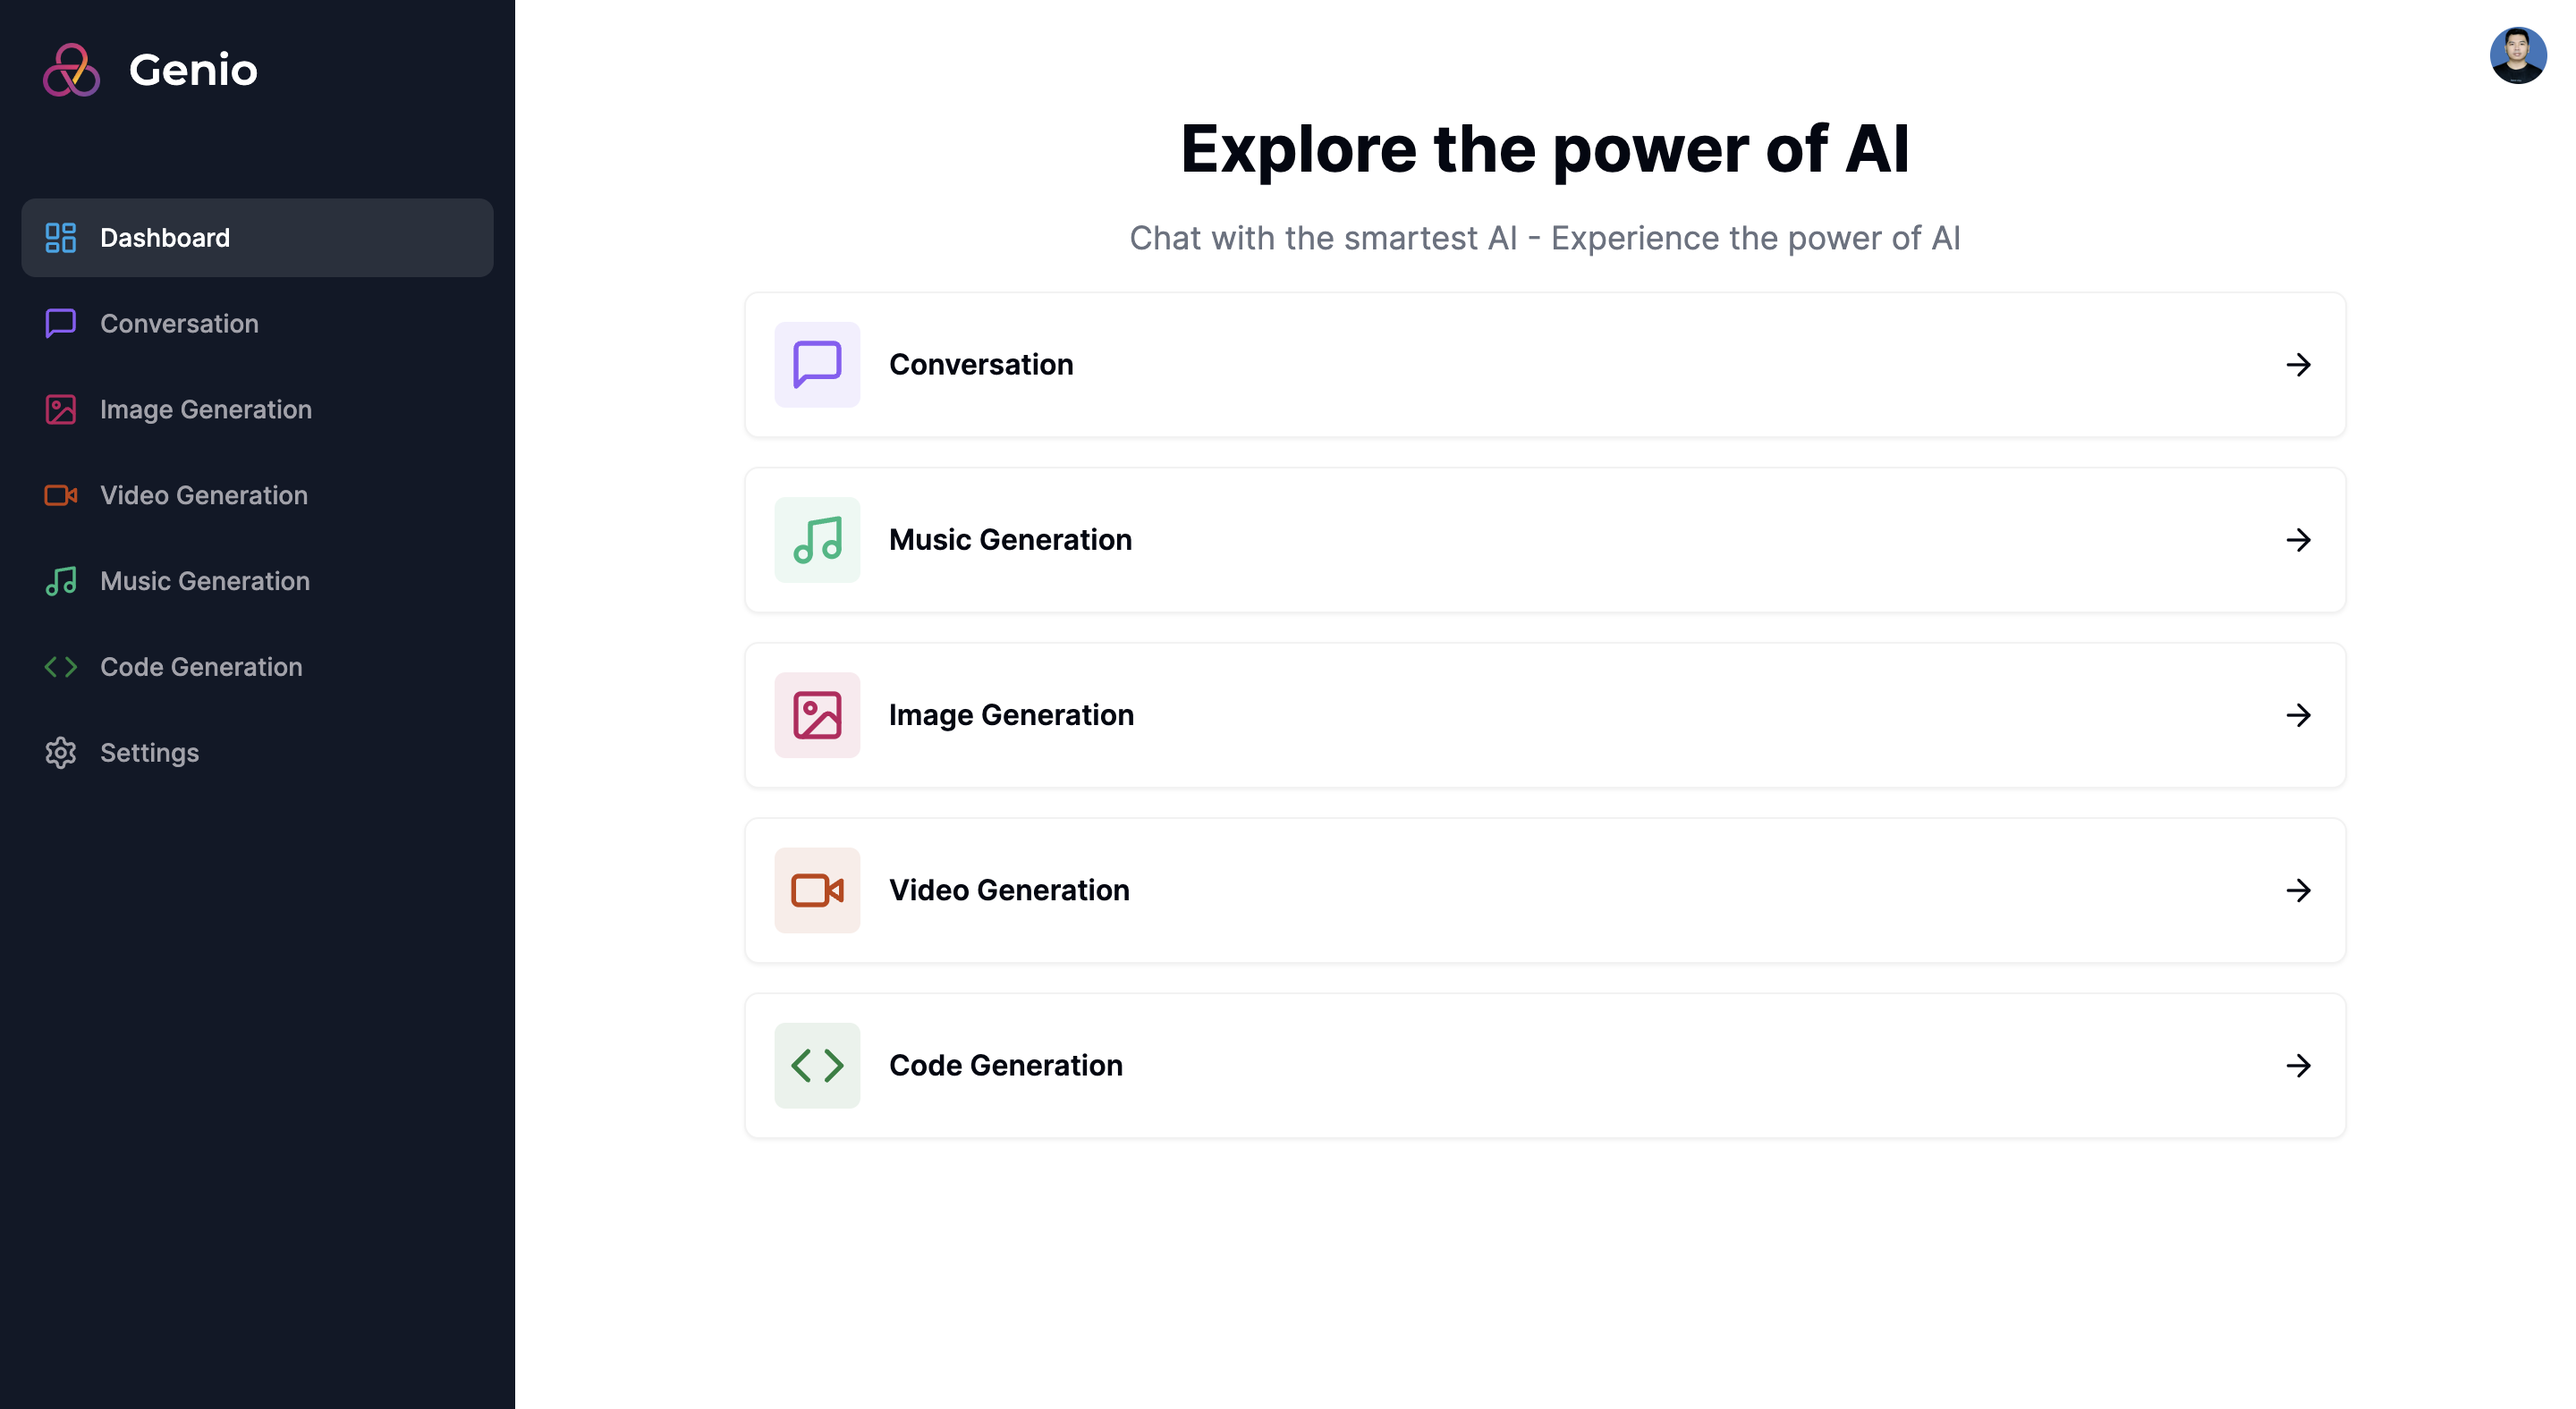
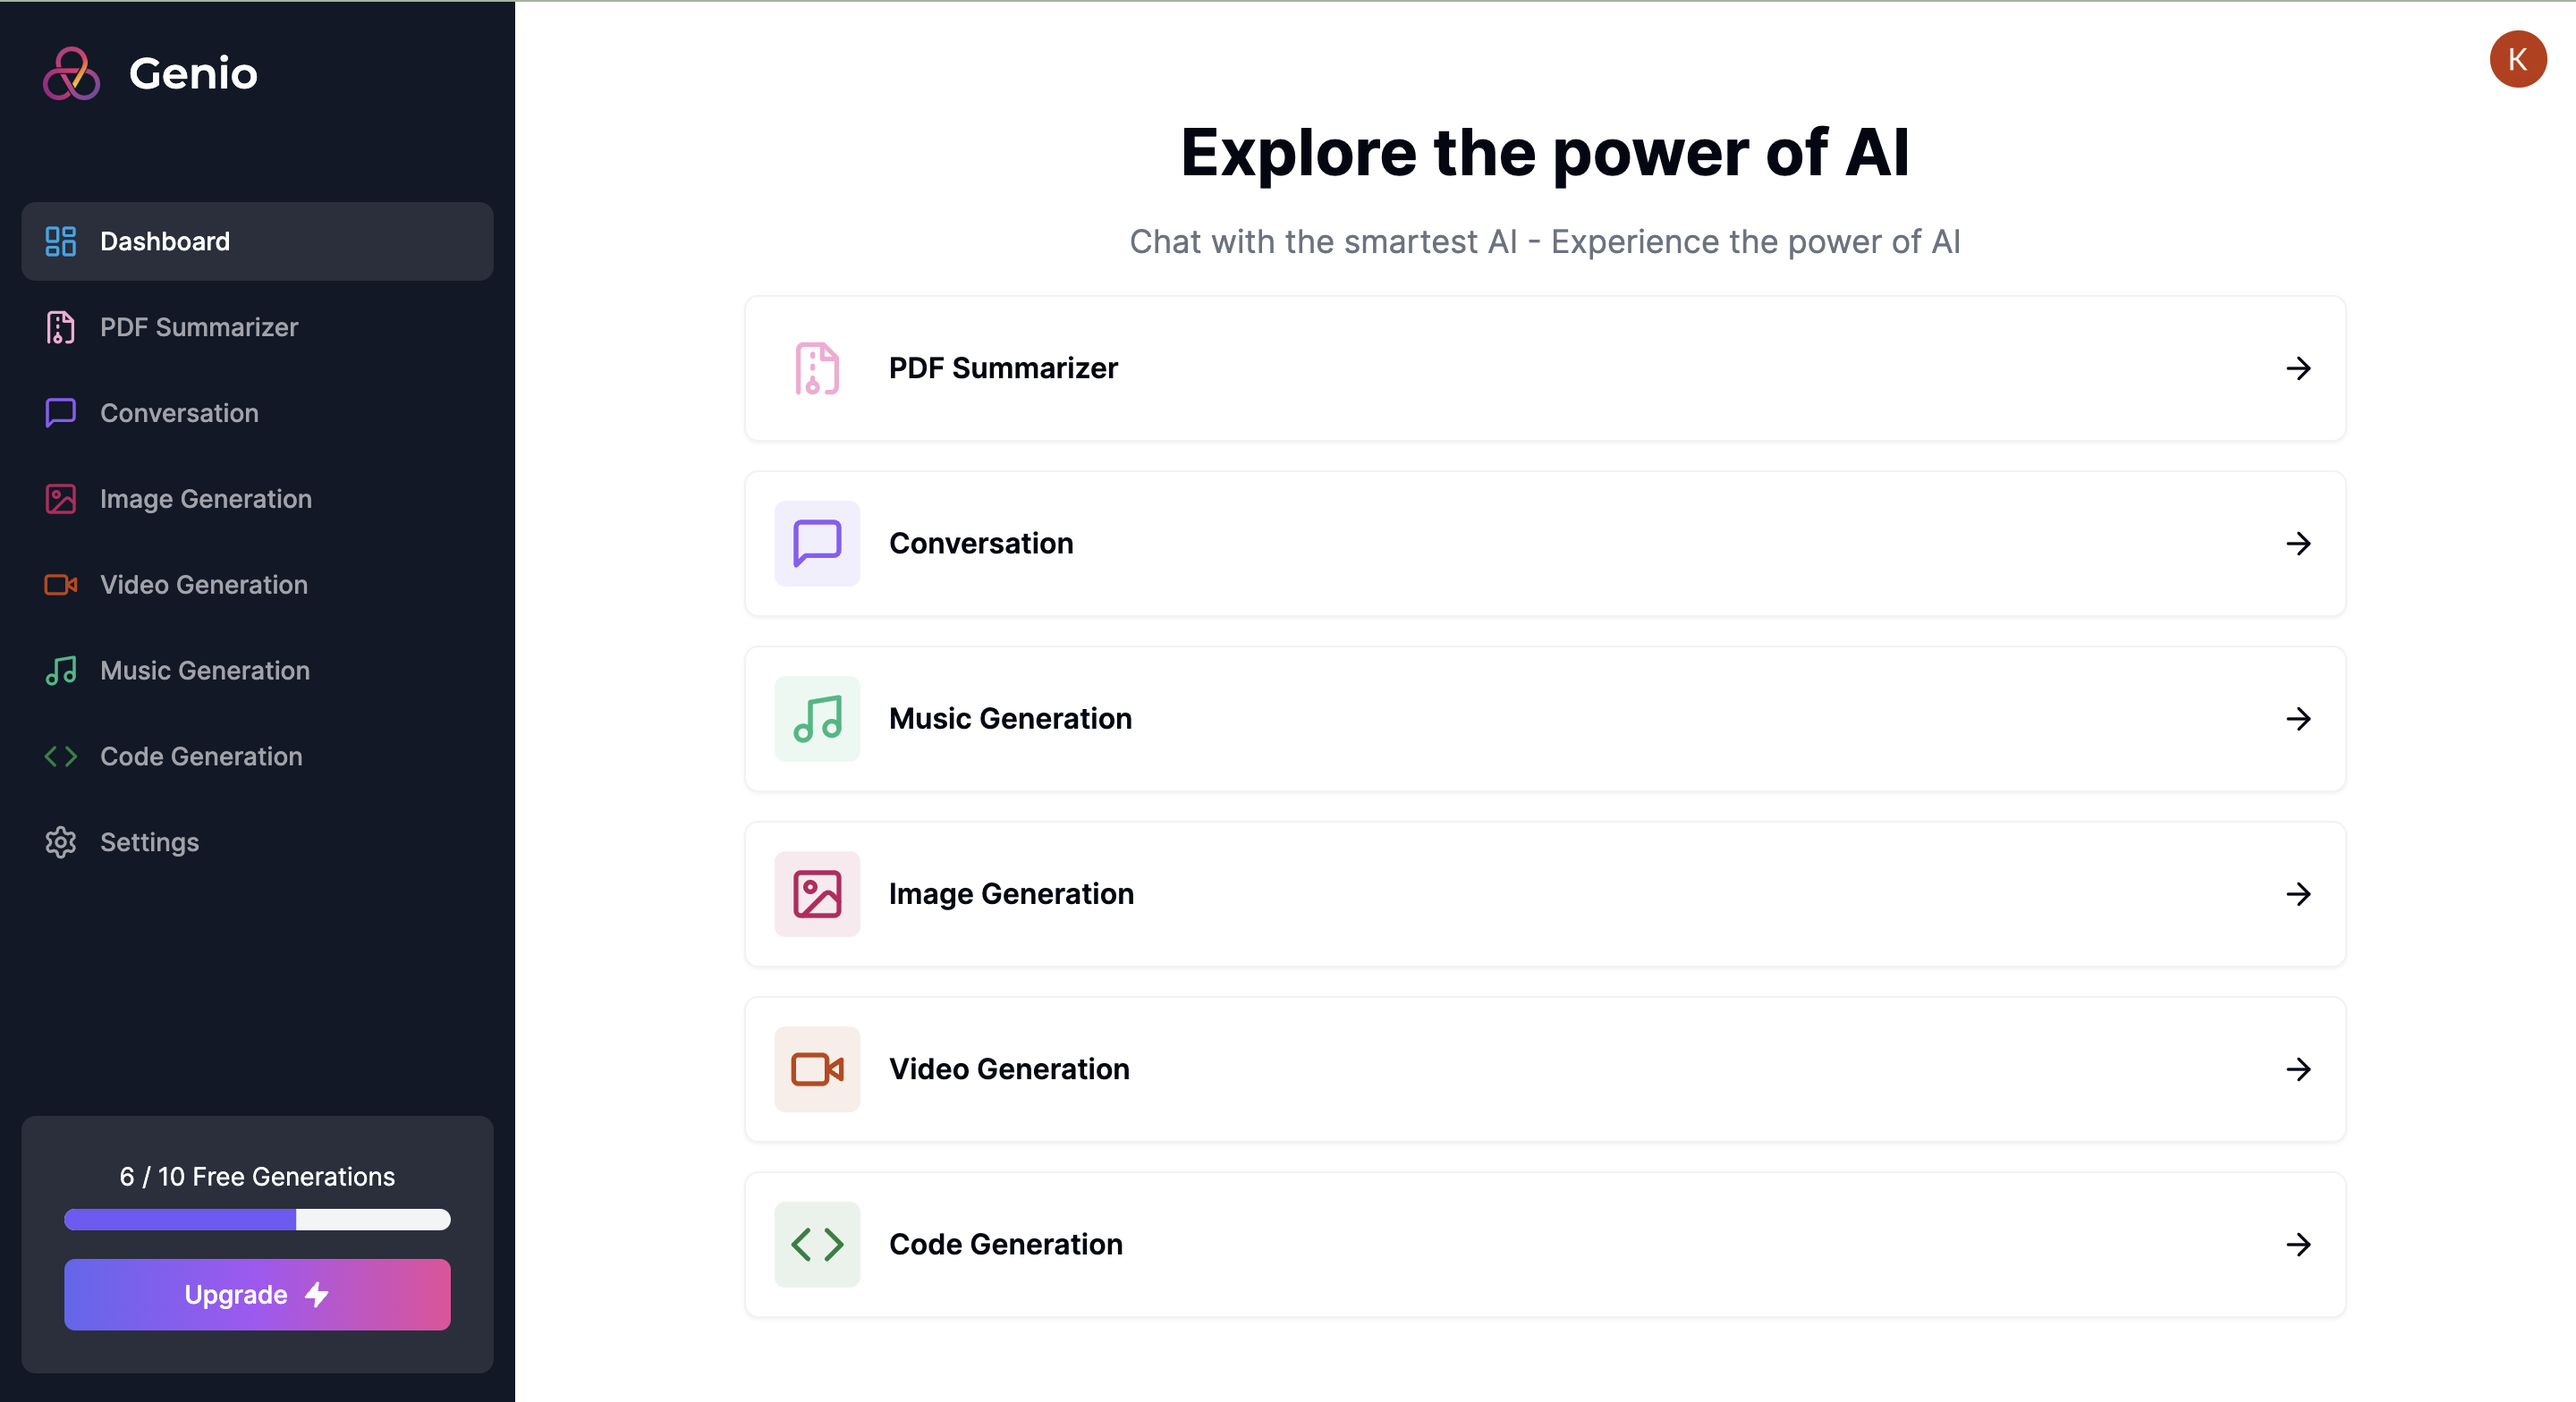
delete unused

diff --git a/app/(dashboard)/(routes)/summarizer/page.tsx b/app/(dashboard)/(routes)/summarizer/page.tsx
@@ -2,12 +2,8 @@
 
 import { useState } from "react";
 import { OpenAI } from "openai";
-import * as z from "zod";
-import { useForm } from "react-hook-form";
-import { zodResolver } from "@hookform/resolvers/zod";
 import {
   FileArchiveIcon,
-  Ghost,
   Loader2,
   MessageSquare,
   Plus,
@@ -16,27 +12,19 @@ import {
 import Skeleton from "react-loading-skeleton";
 import Link from "next/link";
 import { useRouter } from "next/navigation";
-import axios from "axios";
-import { toast } from "react-hot-toast";
-import { format } from "date-fns";
-import { Form, FormControl, FormField, FormItem } from "@/components/ui/form";
 import Heading from "@/components/headings";
 import { Input } from "@/components/ui/input";
 import { Button } from "@/components/ui/button";
 import UploadButton from "@/components/upload-button";
 
-import { formSchema } from "./constant";
 import EmptyPage from "@/components/empty";
 import Loader from "@/components/loader";
-import UserAvatar from "@/components/user-avatar";
-import BotAvatar from "@/components/bot-avatar";
-import { cn } from "@/lib/utils";
 import { useProModal } from "@/hooks/use-pro-modal";
 import { trpc } from "@/app/_trpc/client";
 
 import * as formatter from "date-fns";
 
-const ConversationPage = () => {
+const PDFSummarizerPage = () => {
   const [currentlyDeletingFile, setCurrentlyDeletingFile] = useState<
     string | null
   >(null);
@@ -44,16 +32,8 @@ const ConversationPage = () => {
   const [messages, setMessages] = useState<OpenAI.Chat.ChatCompletionMessage[]>(
     []
   );
-  const form = useForm<z.infer<typeof formSchema>>({
-    resolver: zodResolver(formSchema),
-    defaultValues: {
-      prompt: "",
-    },
-  });
 
   const proModal = useProModal();
-
-  // const isLoading = form.formState.isSubmitting;
 
   const { data: files, isLoading } = trpc.getUserFiles
     // @ts-ignore
@@ -190,4 +170,4 @@ const ConversationPage = () => {
   );
 };
 
-export default ConversationPage;
+export default PDFSummarizerPage;
